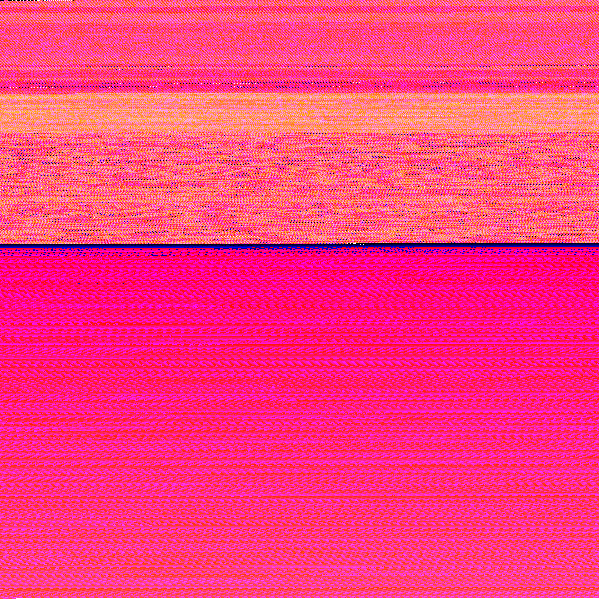
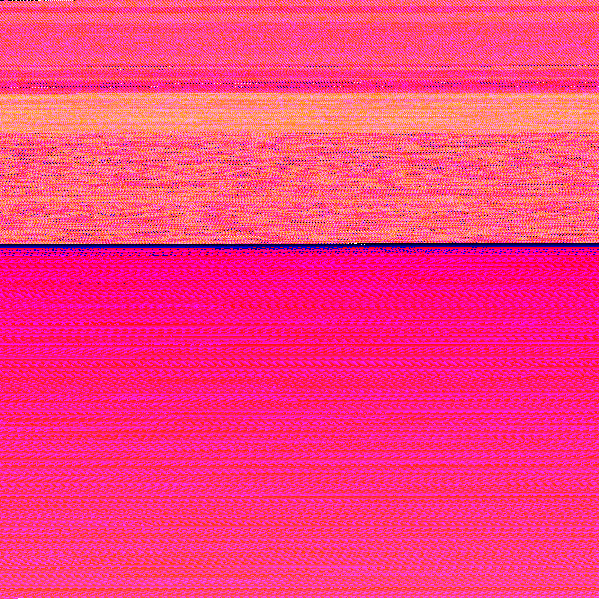
rebuild image for 1.4.x

diff --git a/examples/index.html b/examples/index.html
@@ -76,7 +76,7 @@
 				// Generate the image (only to show you what she looks like)
 				OBJImg.generateIMG({
 					obj: "models/" + fileName + "/" + fileName + ".obj",
-					useWorker: true,
+					useWorker: false,
 					onComplete: function( datas ){
 
 						generatedImage.src = datas;
@@ -95,7 +95,7 @@
 					image: "models/" + fileName + "/" + fileName + ".obj.png",
 					receiveShadow: false,
 					castShadow: false,
-					useWorker: true,
+					useWorker: false,
 					onComplete: function( event ){
 
 						console.log("RAW datas:", event.detail, " (usefull for vanilla WebGL)");
